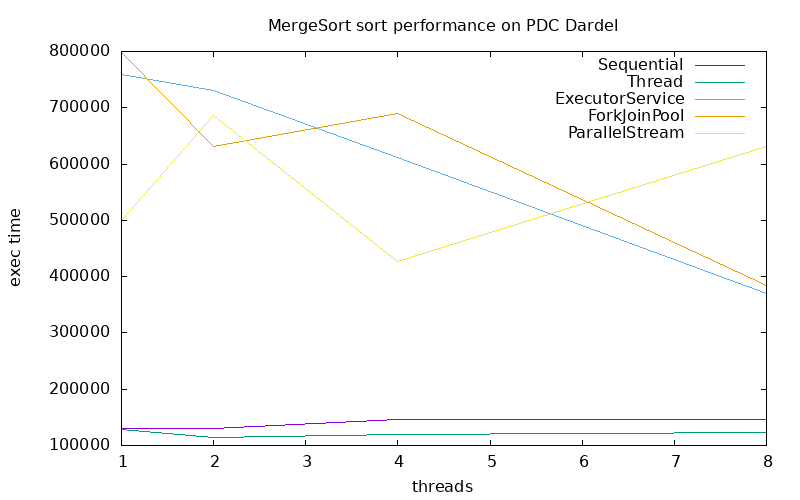
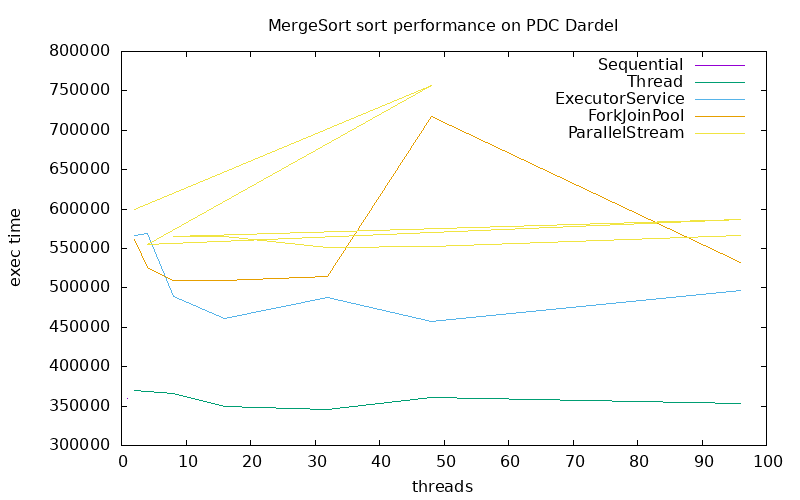
add data

diff --git a/src/Auxiliary.java b/src/Auxiliary.java
@@ -72,20 +72,23 @@ public class Auxiliary {
      */
     public static double[] getMeanAndStDev(long[] data) {
 
+        // Get array size
+        int sz = data.length;
+
         // Calculate mean
-        double sum = 0.0;
-        for (double time : data) {
-            sum += time;
+        double mean = 0.0;
+        for (int i = 0; i < sz; i++) {
+            mean += (data[i] / sz);
         }
-        double mean = (sum / data.length);
 
         // Calculate stdev (from variance)
         double variance = 0.0;
-        for (double time : data) {
-            variance += Math.pow(time - mean, 2);
+        for (int i = 0; i < sz; i++) {
+            variance += Math.pow(data[i] - mean, 2);
         }
-        double stdev = Math.sqrt(variance / data.length);
+        double stdev = Math.sqrt(variance / sz);
 
+        // Group in array
         double[] results = { mean, stdev };
         return results;
     }
@@ -104,16 +107,17 @@ public class Auxiliary {
         double[] result = new double[2];
         long[] executionTimes = new long[m];
 
-        int seed = 0;
+        int seed = initSeed;
         for (int i = 0; i < m; i++) {
             // Set new seed to generate array
-            seed += initSeed;
+            seed++;
             int[] arr = arrayGenerate(n, seed);
 
             // Time sorting
             long startTime = System.nanoTime();
             sorter.sort(arr);
             long endTime = System.nanoTime();
+
             executionTimes[i] = (endTime - startTime);
         }
 
@@ -134,10 +138,10 @@ public class Auxiliary {
     public static boolean validate(Sorter sorter, int n, int initSeed, int m) {
 
         // Reference array
-        int seed = 0;
+        int seed = initSeed;
         for (int i = 0; i < m; i++) {
-            // Set new seed to generate array
-            // sseed += initSeed;
+            // Set new seed and generate array
+            seed++;
             int[] arr = arrayGenerate(seed, n);
 
             // Copy for reference
